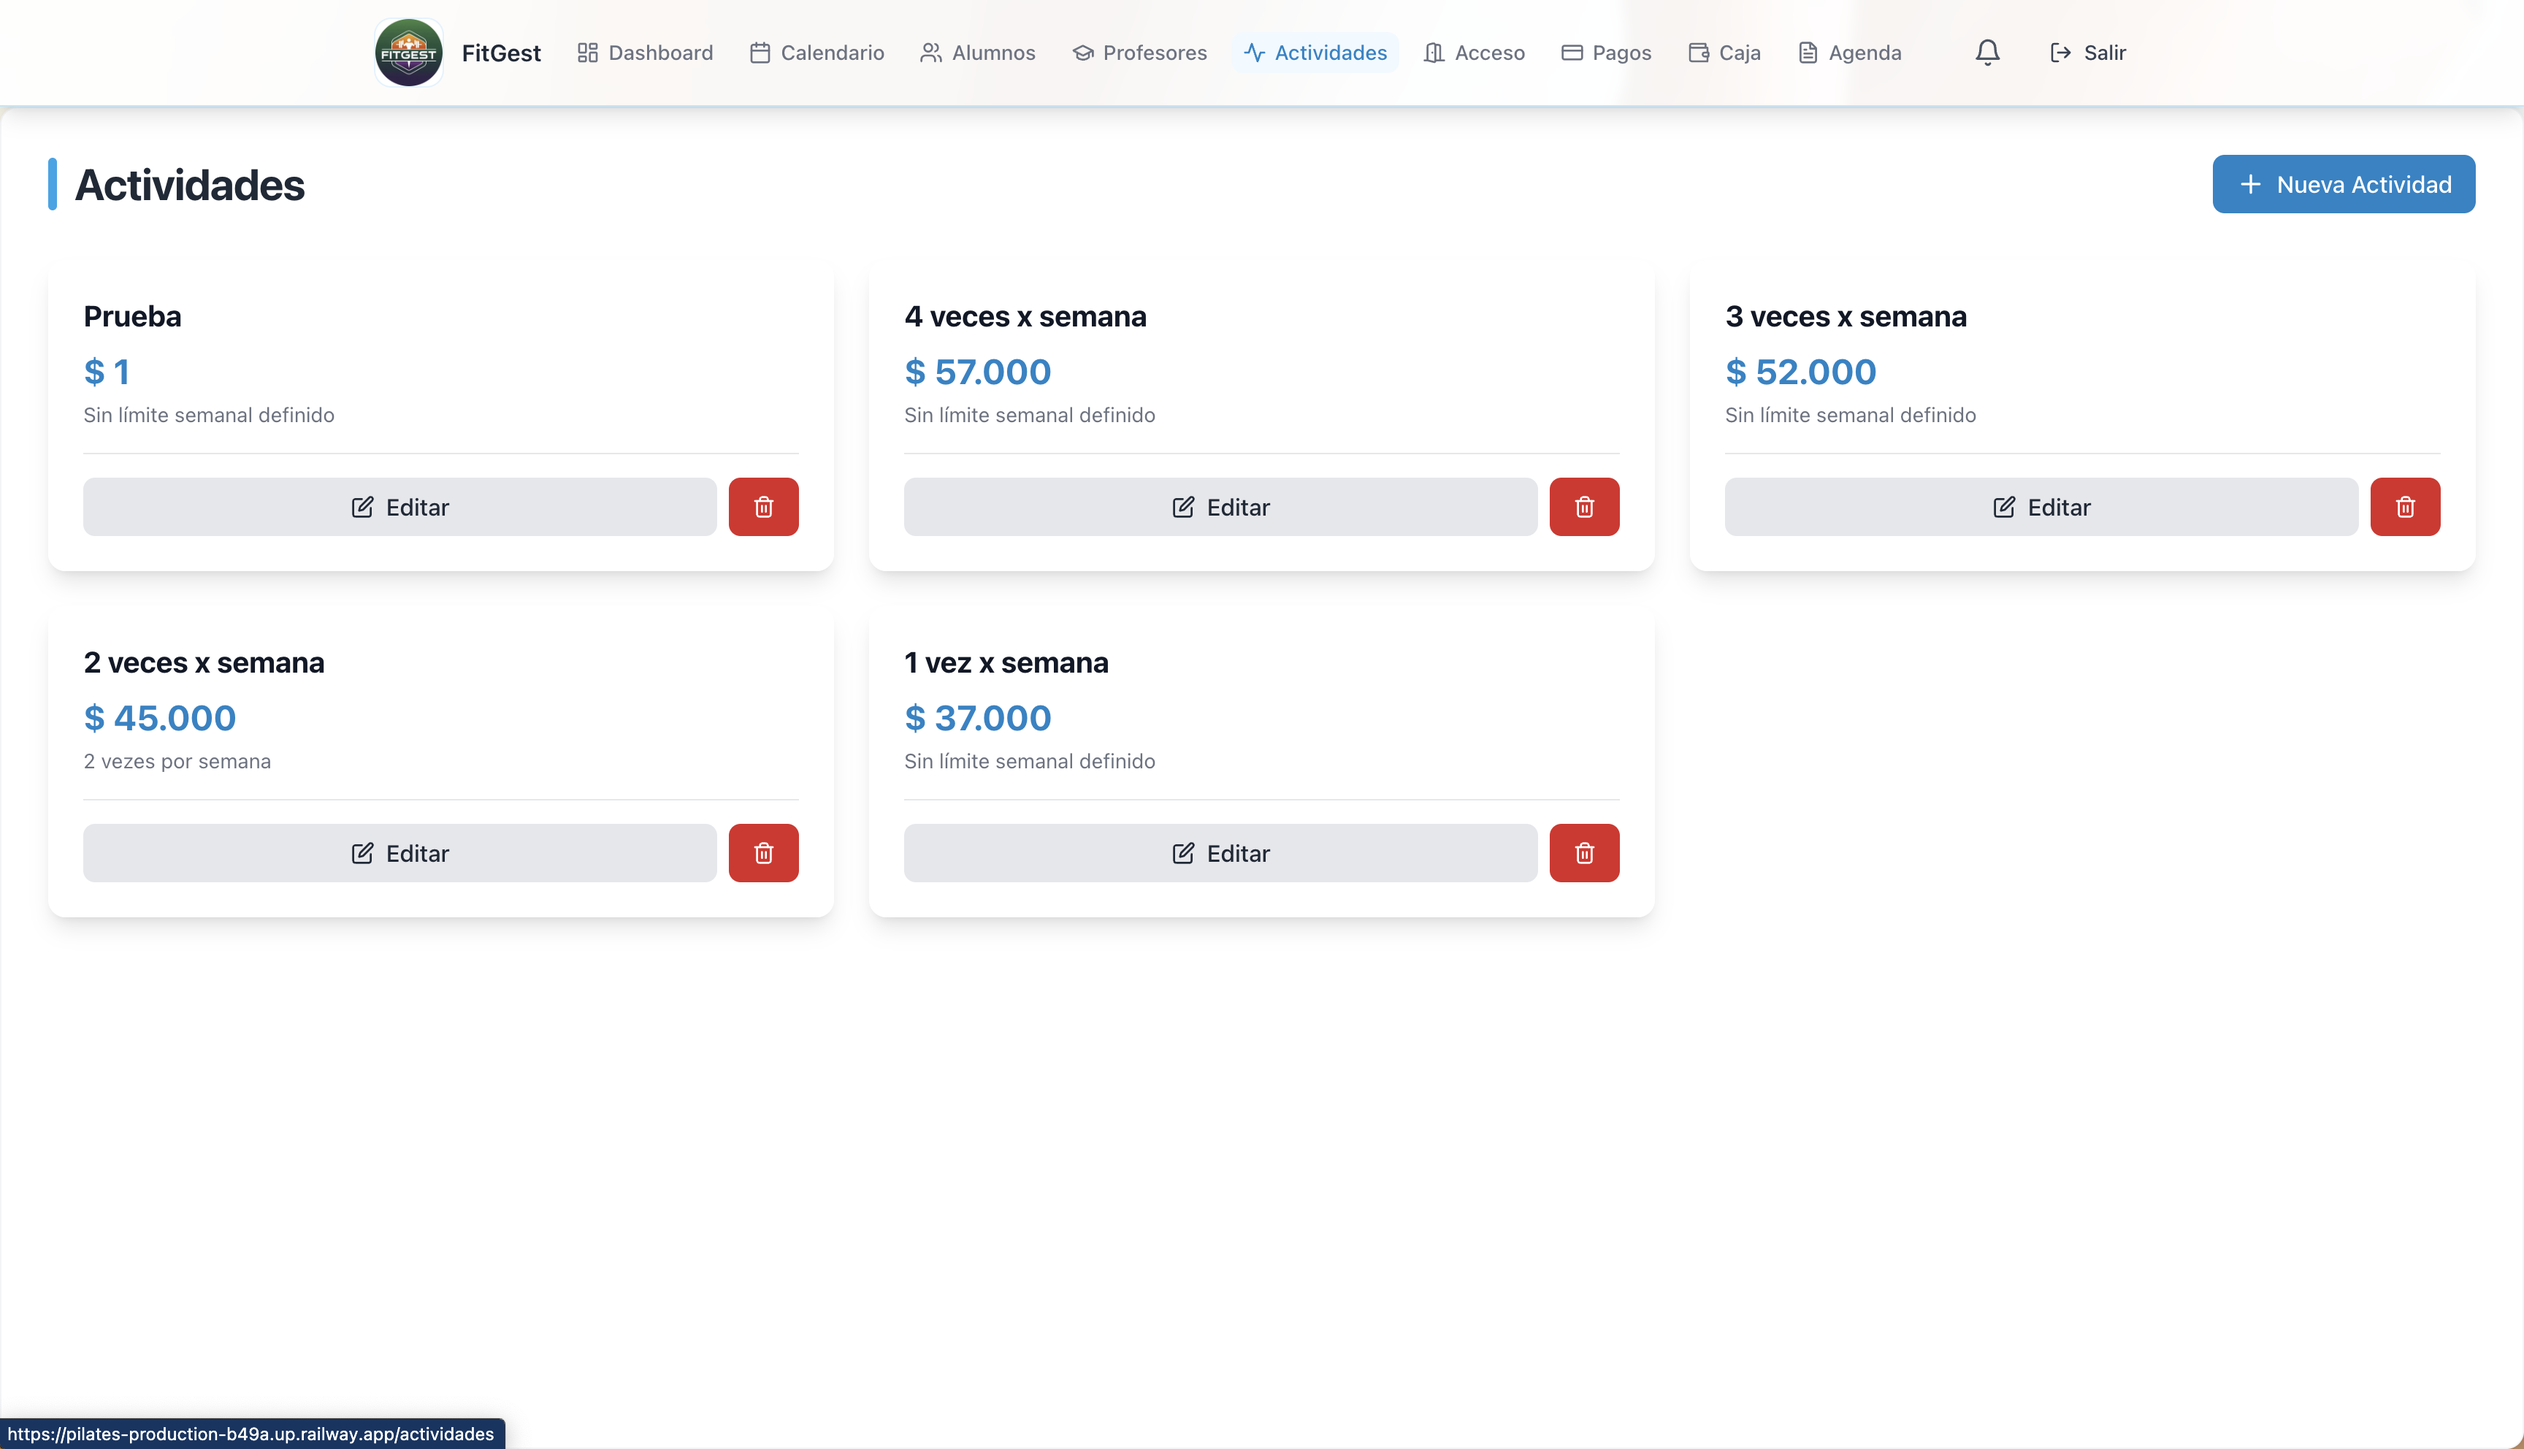
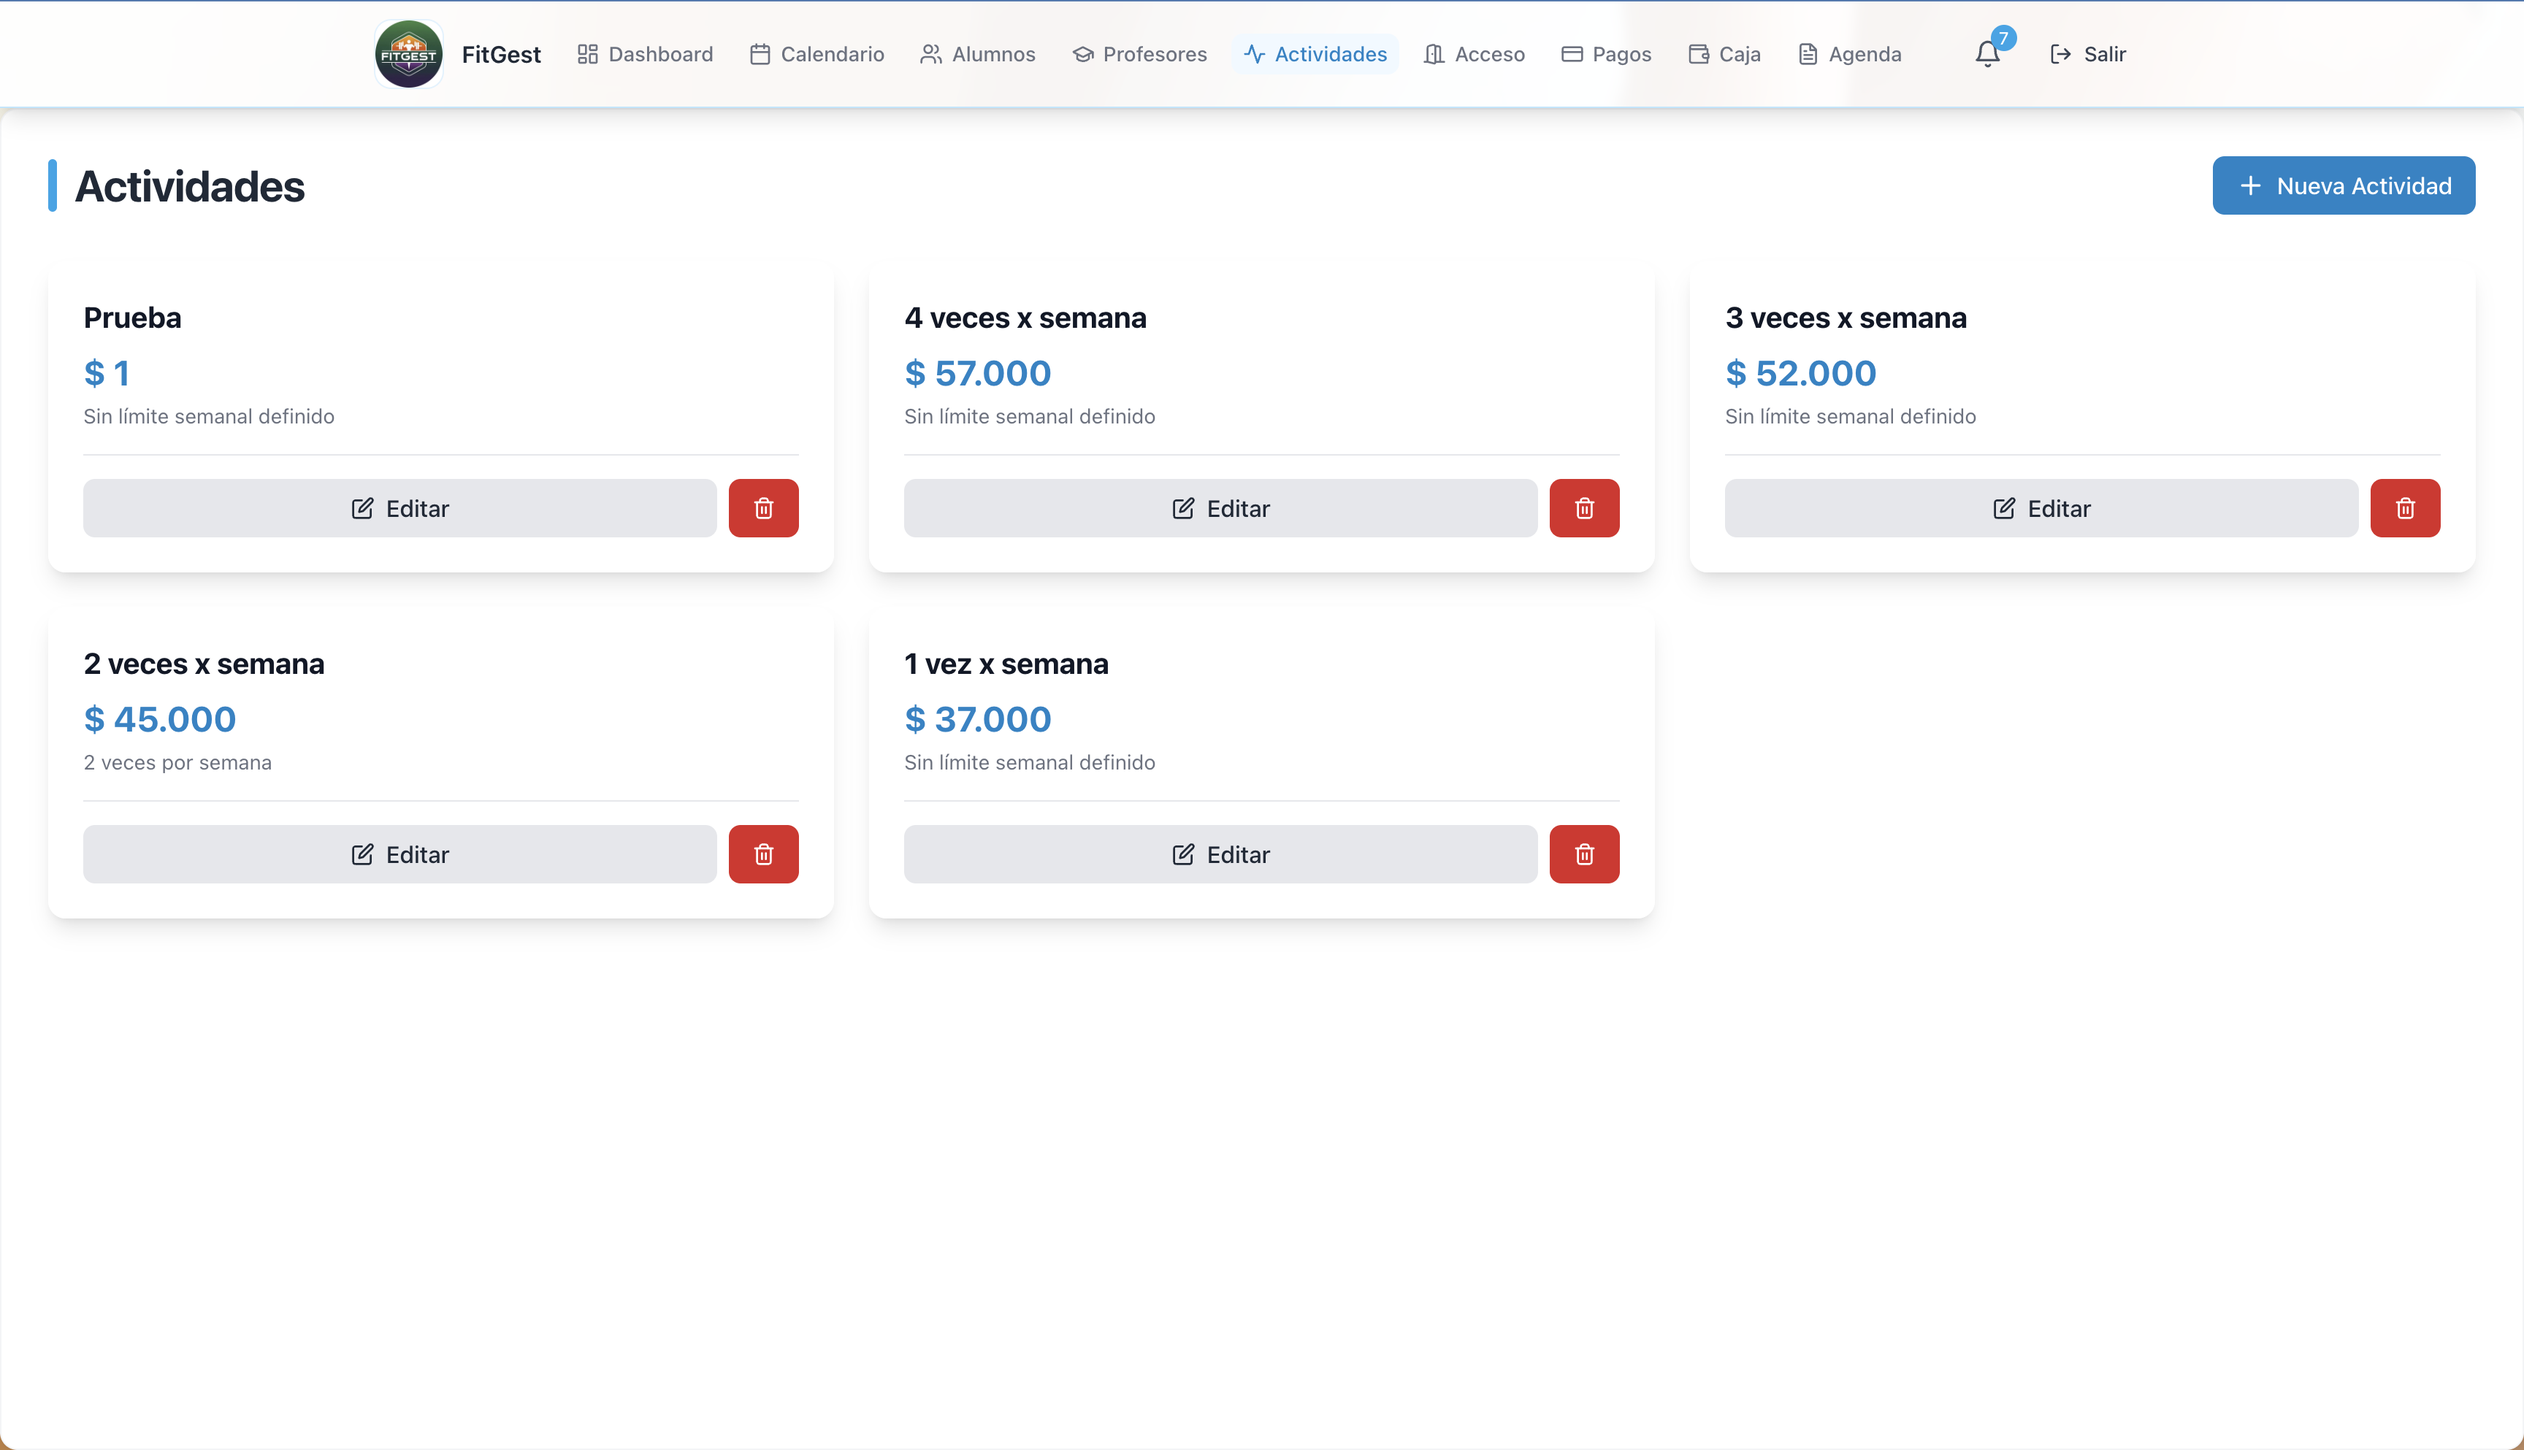
add

diff --git a/src/pages/Landing.tsx b/src/pages/Landing.tsx
@@ -13,7 +13,6 @@ import {
   RefreshCw,
   Shield,
   Smartphone,
-  Sparkles,
   Users,
   Wallet,
 } from 'lucide-react';
@@ -55,6 +54,31 @@ const LANDING_IMG = {
   panelCel: '/landing/panelCel.png',
 } as const;
 
+/** Logo de marca (también PWA / favicon en `public/fitgest.png`). */
+const BRAND_LOGO_SRC = '/fitgest.png';
+
+function BrandMark({
+  className = '',
+  size = 40,
+  alt = '',
+}: {
+  className?: string;
+  size?: number;
+  /** Vacío cuando el nombre de marca va al lado (accesibilidad). */
+  alt?: string;
+}) {
+  return (
+    <img
+      src={BRAND_LOGO_SRC}
+      alt={alt}
+      width={size}
+      height={size}
+      decoding="async"
+      className={`shrink-0 rounded-full object-cover ring-1 ring-white/15 ${className}`}
+    />
+  );
+}
+
 function BrowserChrome({ children, className = '' }: { children: ReactNode; className?: string }) {
   return (
     <div
@@ -76,7 +100,7 @@ function BrowserChrome({ children, className = '' }: { children: ReactNode; clas
 function PhoneFrame({ src, alt, label }: { src: string; alt: string; label: string }) {
   return (
     <figure className="w-[min(100%,260px)] shrink-0 mx-auto sm:mx-0">
-      <div className="rounded-[2.25rem] p-2 bg-gradient-to-b from-slate-600 to-slate-900 shadow-2xl ring-1 ring-white/10">
+      <div className="rounded-[2.25rem] p-2 bg-gradient-to-b from-primary-800/90 to-slate-950 shadow-2xl ring-1 ring-white/10">
         <div className="rounded-[1.85rem] overflow-hidden border border-black/50 bg-black">
           <img
             src={src}
@@ -325,15 +349,16 @@ export default function Landing() {
         className="absolute inset-0 bg-[url('/saviaFondo.png')] bg-cover bg-center opacity-[0.12] pointer-events-none"
         aria-hidden
       />
-      <div className="absolute inset-0 bg-gradient-to-b from-slate-950 via-slate-950/95 to-slate-900 pointer-events-none" aria-hidden />
+      <div
+        className="absolute inset-0 bg-gradient-to-b from-slate-950 via-emerald-950/35 to-slate-900 pointer-events-none"
+        aria-hidden
+      />
 
-      <header className="relative z-10 border-b border-white/10 backdrop-blur-md bg-slate-950/70">
+      <header className="relative z-10 border-b border-white/10 backdrop-blur-md bg-slate-950/75">
         <div className="max-w-6xl mx-auto px-4 sm:px-6 py-4 flex items-center justify-between gap-4">
-          <Link to="/" className="flex items-center gap-2 min-w-0">
-            <span className="flex h-10 w-10 shrink-0 items-center justify-center rounded-xl bg-primary-500/20 text-primary-300 ring-1 ring-primary-400/30">
-              <Sparkles className="w-5 h-5" aria-hidden />
-            </span>
-            <span className="font-semibold text-lg tracking-tight truncate">{APP_NAME}</span>
+          <Link to="/" className="flex items-center gap-3 min-w-0 group">
+            <BrandMark size={40} className="shadow-lg shadow-black/30 group-hover:ring-primary-400/40 transition" />
+            <span className="font-semibold text-lg tracking-tight truncate text-white">{APP_NAME}</span>
           </Link>
           <nav className="flex items-center gap-2 sm:gap-3 shrink-0">
             <a
@@ -361,8 +386,8 @@ export default function Landing() {
 
       <main className="relative z-10">
         <section className="max-w-6xl mx-auto px-4 sm:px-6 pt-14 sm:pt-20 pb-12 sm:pb-16">
-          <p className="inline-flex items-center gap-2 rounded-full border border-primary-500/30 bg-primary-500/10 text-primary-200 text-xs font-medium px-3 py-1 mb-5">
-            <Sparkles className="w-3.5 h-3.5" aria-hidden />
+          <p className="inline-flex items-center gap-2 rounded-full border border-primary-500/35 bg-primary-900/50 text-primary-100 text-xs font-medium px-3 py-1.5 mb-5">
+            <BrandMark size={22} className="ring-primary-400/40" />
             Gestión para estudios de Pilates y fitness
           </p>
           <h1 className="text-4xl sm:text-5xl lg:text-[3.25rem] font-bold tracking-tight text-white max-w-3xl leading-[1.08]">
@@ -382,7 +407,7 @@ export default function Landing() {
             </Link>
             <a
               href="#prueba-gratis"
-              className="inline-flex items-center justify-center gap-2 rounded-xl border border-white/15 bg-white/5 hover:bg-white/10 text-white font-medium px-6 py-3.5 text-base transition"
+              className="inline-flex items-center justify-center gap-2 rounded-xl border border-accent-500/40 bg-accent-600/15 hover:bg-accent-600/25 text-accent-100 font-medium px-6 py-3.5 text-base transition"
             >
               Prueba gratis por WhatsApp
             </a>
@@ -522,7 +547,7 @@ export default function Landing() {
         </section>
 
         <section id="prueba-gratis" className="max-w-6xl mx-auto px-4 sm:px-6 py-14 sm:py-18 scroll-mt-24">
-          <div className="rounded-3xl border border-primary-500/25 bg-gradient-to-br from-primary-900/40 to-slate-900/80 p-8 sm:p-12">
+          <div className="rounded-3xl border border-primary-500/30 bg-gradient-to-br from-primary-900/50 via-slate-900/80 to-indigo-950/40 p-8 sm:p-12">
             <div className="max-w-xl mx-auto text-center">
               <h2 className="text-2xl sm:text-3xl font-bold text-white">Tu prueba gratis y más info</h2>
               <p className="mt-3 text-slate-400 text-sm sm:text-base leading-relaxed">
@@ -534,7 +559,7 @@ export default function Landing() {
               <button
                 type="button"
                 onClick={handleWhatsAppPrueba}
-                className="w-full inline-flex items-center justify-center gap-2 rounded-xl bg-emerald-600 hover:bg-emerald-500 text-white font-semibold px-6 py-4 text-base shadow-lg shadow-emerald-950/40 transition"
+                className="w-full inline-flex items-center justify-center gap-2 rounded-xl bg-gradient-to-r from-amber-400 via-accent-500 to-orange-600 hover:from-amber-300 hover:via-accent-400 hover:to-orange-500 text-white font-semibold px-6 py-4 text-base shadow-lg shadow-orange-950/45 transition"
               >
                 <MessageCircle className="w-5 h-5 shrink-0" aria-hidden />
                 Hablar por WhatsApp
@@ -559,10 +584,13 @@ export default function Landing() {
         </section>
       </main>
 
-      <footer className="relative z-10 border-t border-white/10 py-8 text-center text-xs text-slate-500">
-        <p>
-          © {new Date().getFullYear()} {APP_NAME}. Gestión para estudios de Pilates y fitness.
-        </p>
+      <footer className="relative z-10 border-t border-white/10 py-10 text-center text-xs text-slate-500">
+        <div className="flex flex-col items-center gap-3">
+          <BrandMark size={48} alt={`Logo ${APP_NAME}`} className="opacity-90" />
+          <p>
+            © {new Date().getFullYear()} {APP_NAME}. Gestión para estudios de Pilates y fitness.
+          </p>
+        </div>
       </footer>
     </div>
   );

diff --git a/tailwind.config.js b/tailwind.config.js
@@ -7,17 +7,30 @@ export default {
   theme: {
     extend: {
       colors: {
+        /** Verde bosque + acento cálido (marca FitGest / logo circular) */
         primary: {
-          50: '#f0f9ff',
-          100: '#e0f2fe',
-          200: '#bae6fd',
-          300: '#7dd3fc',
-          400: '#38bdf8',
-          500: '#0ea5e9',
-          600: '#0284c7',
-          700: '#0369a1',
-          800: '#075985',
-          900: '#0c4a6e',
+          50: '#f0fdf4',
+          100: '#dcfce7',
+          200: '#bbf7d0',
+          300: '#86efac',
+          400: '#4ade80',
+          500: '#3d8f52',
+          600: '#2d6b3f',
+          700: '#245334',
+          800: '#1a3d27',
+          900: '#132a1a',
+        },
+        accent: {
+          50: '#fffbeb',
+          100: '#fef3c7',
+          200: '#fde68a',
+          300: '#fcd34d',
+          400: '#fbbf24',
+          500: '#f59e0b',
+          600: '#f58220',
+          700: '#ea580c',
+          800: '#c2410c',
+          900: '#9a3412',
         },
       },
     },

diff --git a/index.html b/index.html
@@ -2,12 +2,12 @@
 <html lang="es">
   <head>
     <meta charset="UTF-8" />
-    <link rel="icon" type="image/svg+xml" href="/vite.svg" />
+    <link rel="icon" type="image/png" href="/fitgest.png" />
     <meta
       name="viewport"
       content="width=device-width, initial-scale=1.0, viewport-fit=cover, interactive-widget=resizes-content"
     />
-    <meta name="theme-color" content="#0f172a" />
+    <meta name="theme-color" content="#1a3d27" />
     <meta name="apple-mobile-web-app-capable" content="yes" />
     <meta name="apple-mobile-web-app-status-bar-style" content="black-translucent" />
     <meta name="apple-mobile-web-app-title" content="Sistema de Gestión" />
